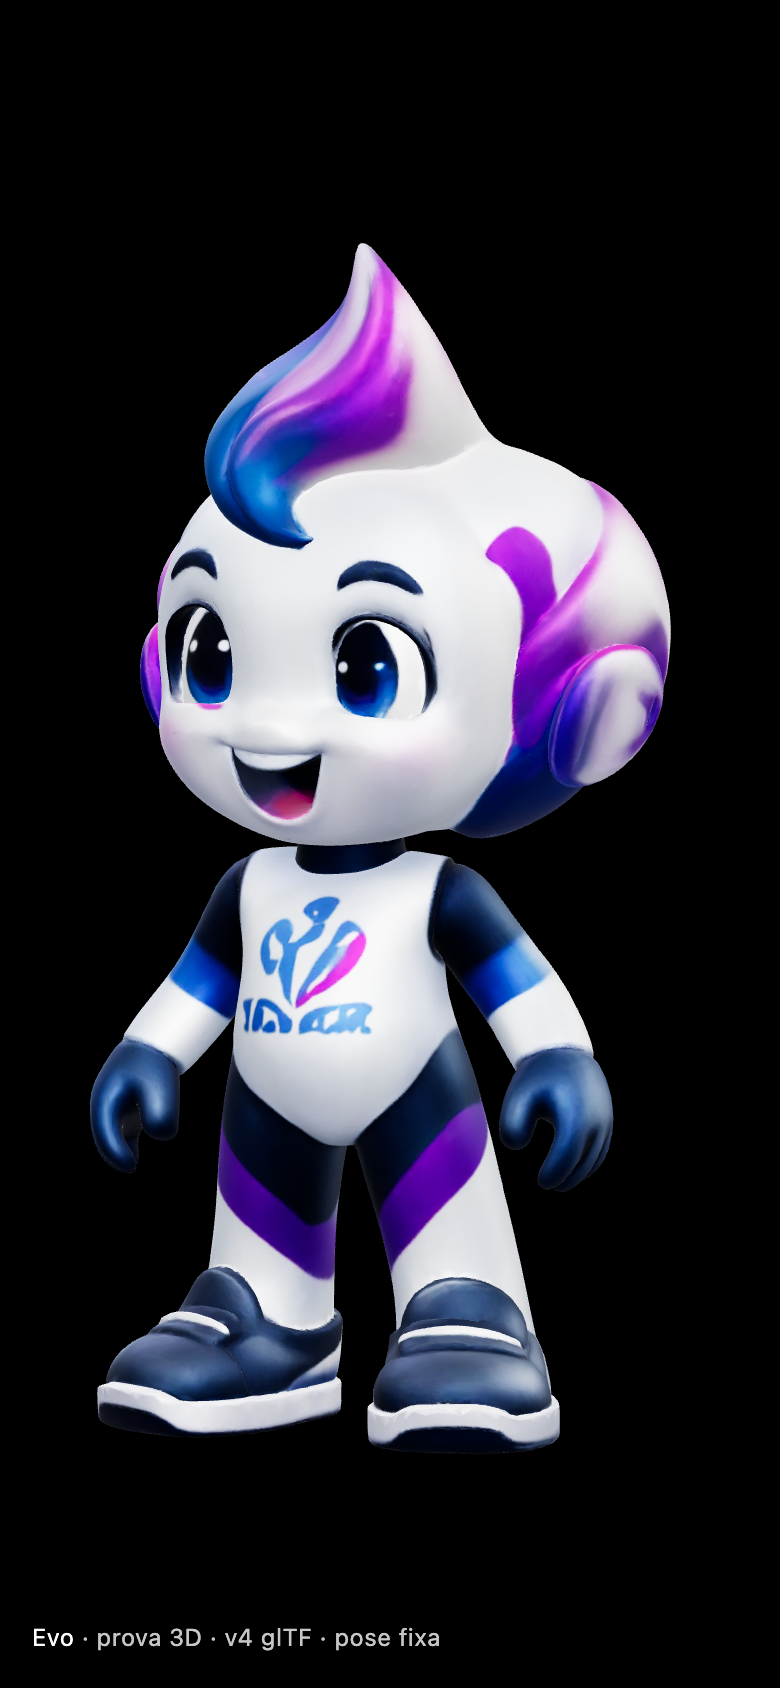
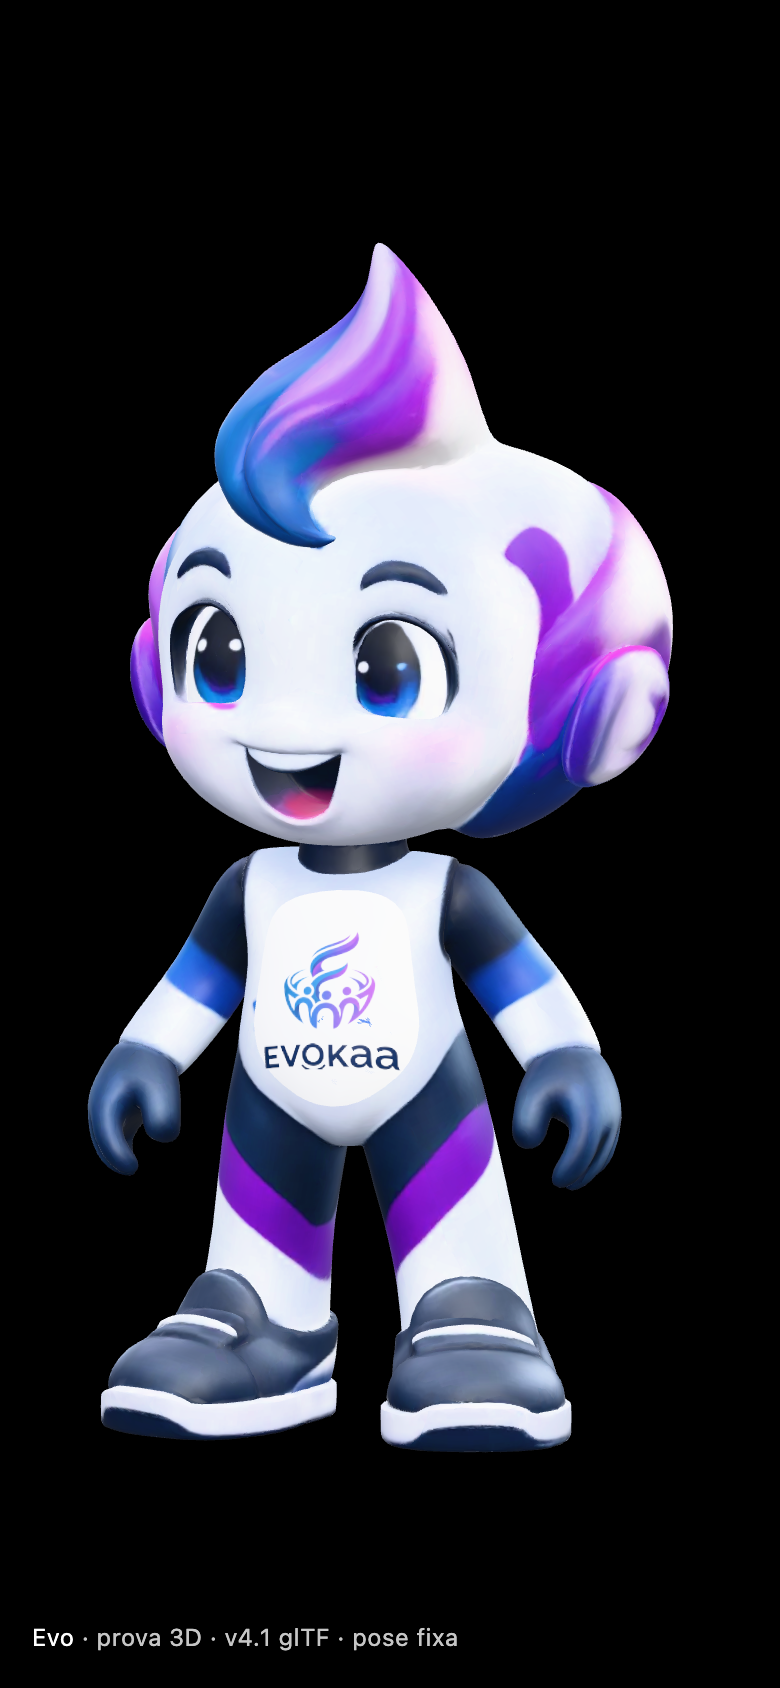
fix(identidade): Evo 3D v4.1 — material sem metal, tone mapping neutro, marca real por decalque, poster se a textura falhar, posters paisagem/retrato, movimento reduzido fica no poster

Changed region(s): [[0.0923, 0.1232, 0.8615, 0.8626], [0.3385, 0.955, 0.5846, 0.9858]]

diff --git a/docs/identidade-v3/evo-3d/index.html b/docs/identidade-v3/evo-3d/index.html
@@ -6,22 +6,23 @@
 <title>Evo 3D — prova</title>
 <link rel="icon" href="data:," />
 <!-- Prova local da Fase 2 do Modo Refero (Decisões 244–247). Fora das rotas do produto.
-     v4: o Evo vem de um modelo texturizado (evo.glb, gerado a partir das imagens originais do mascote), não de peças
-     geométricas: o Ricardo reprovou a versão procedural (index-procedural-v3.html, guardada só como histórico).
-     three.js pela CDN só nesta prova; no produto entra pelo npm, em chunk separado por rota. -->
+     v4.1: o Evo vem de um modelo texturizado (evo.glb, gerado por imagem→3D no Space microsoft/TRELLIS.2, MIT, a partir
+     do quadro-chave do mascote). A versão em peças geométricas foi reprovada pelo Ricardo (index-procedural-v3.html, só histórico).
+     three.js pela CDN só nesta prova; no produto entra pelo npm, em chunk separado por rota, com o GLB simplificado e comprimido. -->
 <style>
   :root { color-scheme: dark; }
   html, body { margin: 0; height: 100%; background: #000; }
   body { display: grid; place-items: center; overflow: hidden;
          font: 400 12px/1.5 ui-sans-serif, system-ui, sans-serif; color: #c6c6c6; }
-  /* O poster é o padrão: fica visível até a cena estar pronta. Se o 3D não carregar, ele continua. */
-  #poster { position: fixed; inset: 0; width: 100%; height: 100%; object-fit: contain; pointer-events: none; transition: none; }
+  /* O poster é o padrão: fica visível até a cena estar pronta. Se o 3D não carregar (ou não deve carregar), ele continua.
+     Dois posters, paisagem e retrato, capturados com o mesmo enquadramento da cena, para o cruzamento não mostrar dois Evos. */
+  #poster { position: fixed; inset: 0; width: 100%; height: 100%; display: block; object-fit: contain; pointer-events: none; transition: none; }
   #cena { position: fixed; inset: 0; width: 100%; height: 100%; display: block; opacity: 0; transition: opacity 1.2s ease; }
   #cena.pronta { opacity: 1; }
-  #cena.pronta + #poster { opacity: 0; transition: opacity 1.2s ease; }
+  #cena.pronta + picture #poster { opacity: 0; transition: opacity 1.2s ease; }
   #rotulo { position: fixed; left: 16px; bottom: 16px; letter-spacing: 0.02em; }
   #rotulo b { color: #fff; font-weight: 400; }
-  @media (prefers-reduced-motion: reduce) { #cena, #cena.pronta + #poster { transition: none; } }
+  @media (prefers-reduced-motion: reduce) { #cena, #cena.pronta + picture #poster { transition: none; } }
 </style>
 <script type="importmap">
 { "imports": {
@@ -32,49 +33,81 @@
 </head>
 <body>
 <canvas id="cena" aria-label="Evo, mascote da Evokaa, em 3D" role="img"></canvas>
-<img id="poster" src="evo-3d-poster.webp" alt="Evo, mascote da Evokaa, em 3D" />
-<div id="rotulo"><b>Evo</b> · prova 3D · v4 glTF · <span id="fps"></span></div>
+<picture>
+  <source media="(max-aspect-ratio: 3/4)" srcset="evo-3d-poster-retrato.webp" />
+  <!-- alt vazio: o canvas já anuncia o Evo; quando o 3D não carrega, o canvas continua com o rótulo -->
+  <img id="poster" src="evo-3d-poster.webp" alt="" />
+</picture>
+<div id="rotulo"><b>Evo</b> · prova 3D · v4.1 glTF · <span id="fps"></span></div>
 
 <script type="module">
 import * as THREE from 'three';
 import { RoomEnvironment } from 'three/addons/environments/RoomEnvironment.js';
 import { GLTFLoader } from 'three/addons/loaders/GLTFLoader.js';
+import { DecalGeometry } from 'three/addons/geometries/DecalGeometry.js';
 
 const canvas = document.getElementById('cena');
 const params = new URLSearchParams(location.search);
 const anguloFixo = params.get('angulo');
-const modelo = params.get('modelo') ?? 'evo.glb';
+const modelo = params.get('modelo') ?? 'evo.glb'; // só na prova; no produto o caminho é fixo
 const reduzido = () => matchMedia('(prefers-reduced-motion: reduce)').matches;
-const gl = canvas.getContext('webgl2', { antialias: true, alpha: true });
-if (gl) montar(gl); // sem WebGL2 o poster fica (é o padrão do CSS)
+// Fica no poster (regra do lock): movimento reduzido, economia de dados, aparelho fraco, sem WebGL2
+const fraco = navigator.connection?.saveData || (navigator.deviceMemory && navigator.deviceMemory < 4);
+const gl = (!reduzido() && !fraco || anguloFixo !== null) && canvas.getContext('webgl2', { antialias: true, alpha: true });
+if (gl) montar(gl);
 
 async function montar(gl) {
   const renderer = new THREE.WebGLRenderer({ canvas, context: gl, antialias: true, alpha: true });
   renderer.setPixelRatio(Math.min(devicePixelRatio, 2));
-  renderer.toneMapping = THREE.ACESFilmicToneMapping;
+  renderer.toneMapping = THREE.NeutralToneMapping; // o ACES lavava a cor da marca
   renderer.toneMappingExposure = 1.0;
 
   const cena = new THREE.Scene();
   const pm = new THREE.PMREMGenerator(renderer), sala = new RoomEnvironment();
   cena.environment = pm.fromScene(sala, 0.04).texture; pm.dispose(); sala.dispose();
   const camera = new THREE.PerspectiveCamera(24, 1, 0.01, 100);
+  const desistir = () => { cena.environment?.dispose(); renderer.dispose(); renderer.forceContextLoss(); };
 
-  // Luz de estúdio: principal branca alta à esquerda, preenchimento frio fraco, contraluz neutra fria
-  cena.add(new THREE.HemisphereLight(0xffffff, 0x0a0a12, 0.3));
-  const principal = new THREE.DirectionalLight(0xffffff, 2.2); principal.position.set(4, 7, 6); cena.add(principal);
-  const preench = new THREE.DirectionalLight(0xcfd8ff, 0.5); preench.position.set(-6, 1, 4); cena.add(preench);
+  // Luz de estúdio sobre material fosco: principal branca alta à esquerda, preenchimento frio fraco, contraluz neutra fria
+  cena.add(new THREE.HemisphereLight(0xffffff, 0x0a0a12, 0.35));
+  const principal = new THREE.DirectionalLight(0xffffff, 2.0); principal.position.set(4, 7, 6); cena.add(principal);
+  const preench = new THREE.DirectionalLight(0xcfd8ff, 0.6); preench.position.set(-6, 1, 4); cena.add(preench);
   const contra = new THREE.DirectionalLight(0xbfcbff, 0.9); contra.position.set(-3, 5, -7); cena.add(contra);
 
-  // Modelo texturizado. Se não carregar, o poster fica e nada mais acontece.
+  // Modelo texturizado. Se não carregar, ou vier sem textura (WebP sem suporte, arquivo quebrado), o poster fica.
   let gltf;
-  try { gltf = await new GLTFLoader().loadAsync(modelo); }
-  catch (e) { console.warn('Evo: modelo não carregou, fica o poster', e); renderer.dispose(); return; }
+  try { gltf = await new GLTFLoader().loadAsync(modelo); } catch (e) { console.warn('Evo: modelo não carregou, fica o poster', e); desistir(); return; }
+  const malhas = []; gltf.scene.traverse(o => { if (o.isMesh) malhas.push(o); });
+  if (!malhas.length || !malhas.every(m => m.material?.map?.image)) { console.warn('Evo: textura não carregou, fica o poster'); desistir(); return; }
+  // O gerador marcou o material inteiro como metal (mapa de metal quase branco): a cor ficava refém do reflexo e 17 % mais escura
+  for (const m of malhas) { const mat = m.material; mat.metalness = 0; mat.metalnessMap = null; mat.roughnessMap = null; mat.roughness = 0.55; mat.envMapIntensity = 0.5; mat.needsUpdate = true; }
+
   const evo = new THREE.Group(); evo.add(gltf.scene); cena.add(evo);
-  // Centraliza no chão e normaliza a altura para 6 unidades (mesmo enquadramento das provas anteriores)
+  // Centraliza no chão e normaliza a altura para 6 unidades
   const caixa = new THREE.Box3().setFromObject(gltf.scene), tam = caixa.getSize(new THREE.Vector3()), centro = caixa.getCenter(new THREE.Vector3());
   const k = 6 / tam.y; gltf.scene.scale.setScalar(k);
   gltf.scene.position.set(-centro.x * k, -caixa.min.y * k - 1.2, -centro.z * k);
-  gltf.scene.traverse(o => { if (o.isMesh && o.material) { o.material.envMapIntensity = 0.6; } });
+  gltf.scene.updateMatrixWorld(true);
+
+  // Marca no peito: a textura gerada embaralhou o símbolo e o texto; cobre com um retalho branco e projeta a marca real
+  // (ícone e palavra) por DecalGeometry sobre a própria malha, no ponto onde um raio frontal toca o peito.
+  const carregar = src => new Promise((ok, erro) => new THREE.TextureLoader().load(src, t => { t.colorSpace = THREE.SRGBColorSpace; ok(t); }, undefined, erro));
+  try {
+    const [icone, texto] = await Promise.all([carregar('marca.png'), carregar('marca-texto.png')]);
+    const raio = new THREE.Raycaster(new THREE.Vector3(0, 0.95, 5), new THREE.Vector3(0, 0, -1));
+    const toque = raio.intersectObjects(malhas, false)[0];
+    if (toque) {
+      const p = toque.point, n = toque.face.normal.clone().transformDirection(toque.object.matrixWorld);
+      const olhar = p.clone().add(n), ori = new THREE.Object3D(); ori.position.copy(p); ori.lookAt(olhar); // projetor olha para dentro do peito
+      const decal = (tamanho, material, dy = 0, dz = 0.12) => {
+        const pos = p.clone().add(n.clone().multiplyScalar(dz)); pos.y += dy;
+        const g = new DecalGeometry(toque.object, pos, ori.rotation, tamanho); evo.add(new THREE.Mesh(g, material));
+      };
+      decal(new THREE.Vector3(1.3, 1.35, 0.6), new THREE.MeshStandardMaterial({ color: 0xf4f4f4, roughness: 0.55, polygonOffset: true, polygonOffsetFactor: -2, depthWrite: false }), 0);
+      decal(new THREE.Vector3(0.56, 0.56, 0.6), new THREE.MeshStandardMaterial({ map: icone, transparent: true, roughness: 0.55, polygonOffset: true, polygonOffsetFactor: -4, depthWrite: false }), 0.2);
+      decal(new THREE.Vector3(0.7, 0.125, 0.6), new THREE.MeshStandardMaterial({ map: texto, transparent: true, roughness: 0.55, polygonOffset: true, polygonOffsetFactor: -4, depthWrite: false }), -0.2);
+    }
+  } catch (e) { console.warn('Evo: decalque da marca não carregou', e); }
 
   function enquadrar() {
     const w = canvas.clientWidth, h = canvas.clientHeight, aspect = w / h;
@@ -112,8 +145,8 @@ async function montar(gl) {
     perdido = true; desligar(); clearInterval(intervalo); mql.removeEventListener('change', aoMudarMov); io.disconnect();
     removeEventListener('resize', enquadrar); document.removeEventListener('visibilitychange', aoVisib);
     canvas.removeEventListener('webglcontextlost', aoPerder); relogio.dispose();
-    cena.traverse(o => { o.geometry?.dispose(); [].concat(o.material ?? []).forEach(m => { for (const k in m) m[k]?.isTexture && m[k].dispose(); m.dispose(); }); });
-    cena.environment?.dispose(); renderer.dispose(); renderer.forceContextLoss();
+    cena.traverse(o => { o.geometry?.dispose(); [].concat(o.material ?? []).forEach(m => { for (const k in m) if (m[k]?.isTexture) { m[k].source?.data?.close?.(); m[k].dispose(); } m.dispose(); }); });
+    desistir();
   }
 
   window.medirFPS = (ms = 3000) => new Promise(r => { const q0 = total, i0 = performance.now(); setTimeout(() => r(((total - q0) * 1000 / (performance.now() - i0)).toFixed(1)), ms); });
